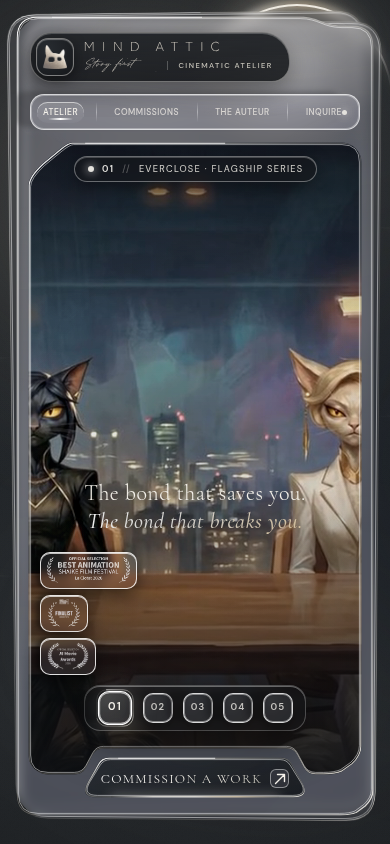
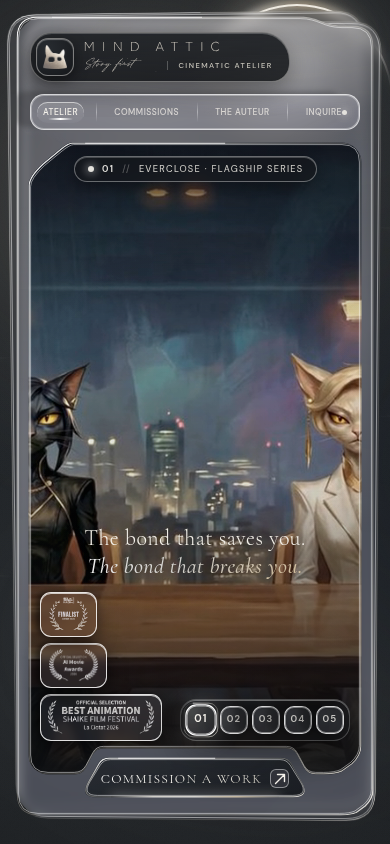
Anchor the mobile laurels in a bottom-left pyramid.
Stack the marks narrowest to widest so Shaike sits on the floor, and shift the reel switcher to the right ledge so the two groups share that edge without clipping the notch.

Changed region(s): [[0.0615, 0.3389, 0.9231, 0.8934], [0.4308, 0.3697, 0.4615, 0.4005], [0.4, 0.2156, 0.4308, 0.2464]]

diff --git a/assets/css/style.css b/assets/css/style.css
@@ -1258,28 +1258,33 @@ html, body {
   }
 
   .cinema-editorial-copy {
-    width: 72%;
-    bottom: 240px;
+    width: 78%;
+    bottom: 195px;
   }
 
   .viewport-laurels {
-    flex-direction: column;
+    flex-direction: column-reverse;
     align-items: flex-start;
     left: 12px;
     right: auto;
-    bottom: 100px;
+    bottom: 34px;
     gap: 6px;
-    max-width: 124px;
+    max-width: 156px;
   }
 
   .viewport-laurel {
-    padding: 3px 6px 4px;
-    border-radius: 10px;
+    padding: 4px 7px 5px;
+    border-radius: 11px;
   }
 
   .viewport-laurel img {
-    height: 28px;
-    max-width: 96px;
+    height: 34px;
+    max-width: 126px;
+  }
+
+  .viewport-laurel:first-child img {
+    height: 36px;
+    max-width: 132px;
   }
 
   .editorial-headline {
@@ -1293,35 +1298,35 @@ html, body {
     margin-top: 2px;
   }
 
-  /* Sits above the commission notch so the stroke does not cross the pills. */
+  /* Sits on the bottom-right floor so the laurel pyramid can anchor the left ledge. */
   .reel-switcher-rail {
     top: auto;
-    bottom: 44px;
-    left: 50%;
-    right: auto;
-    transform: translateX(-50%);
+    bottom: 34px;
+    left: auto;
+    right: 12px;
+    transform: none;
     flex-direction: row;
-    padding: 5px 8px;
+    padding: 4px 5px;
     border-radius: 16px;
-    gap: 6px;
-    max-width: calc(100% - 28px);
+    gap: 0;
+    max-width: none;
   }
 
   .switcher-buttons {
     flex-direction: row;
-    gap: 10px;
-    padding: 2px 4px;
+    gap: 4px;
+    padding: 2px 0;
   }
 
   .frosted-reel-btn {
-    width: 30px;
-    height: 30px;
+    width: 28px;
+    height: 28px;
     border-radius: 10px;
   }
 
   .frosted-reel-btn.is-active {
-    transform: scale(1.14);
-    margin: 0 3px;
+    transform: scale(1.12);
+    margin: 0 1px;
   }
 
   .frb-num {

diff --git a/index.html b/index.html
@@ -259,8 +259,8 @@
 
             <div class="viewport-laurels" id="viewport-laurels" aria-label="Festival laurels">
               <span class="viewport-laurel"><img src="assets/laurel-shaike-glass.png" alt="Official Selection, Best Animation, Shaike Film Festival, La Ciotat 2026"></span>
-              <span class="viewport-laurel"><img src="assets/laurel-bigscreenhack-glass.svg" alt="Finalist, Big Screen Hack London 2026"></span>
               <span class="viewport-laurel"><img src="assets/laurel-aimovie-glass.png" alt="Official Selection, AI Movie Awards 2026"></span>
+              <span class="viewport-laurel"><img src="assets/laurel-bigscreenhack-glass.svg" alt="Finalist, Big Screen Hack London 2026"></span>
             </div>
 
             <!-- Specular rim shares #cinema-viewport's border box. It must stay

diff --git a/assets/js/app.js b/assets/js/app.js
@@ -16,8 +16,8 @@
       category: "WRITTEN & DIRECTED BY ANDREJ KLIMOV",
       laurels: [
         { src: "assets/laurel-shaike-glass.png", alt: "Official Selection, Best Animation, Shaike Film Festival, La Ciotat 2026" },
-        { src: "assets/laurel-bigscreenhack-glass.svg", alt: "Finalist, Big Screen Hack London 2026" },
         { src: "assets/laurel-aimovie-glass.png", alt: "Official Selection, AI Movie Awards 2026" },
+        { src: "assets/laurel-bigscreenhack-glass.svg", alt: "Finalist, Big Screen Hack London 2026" },
       ],
     },
     {
